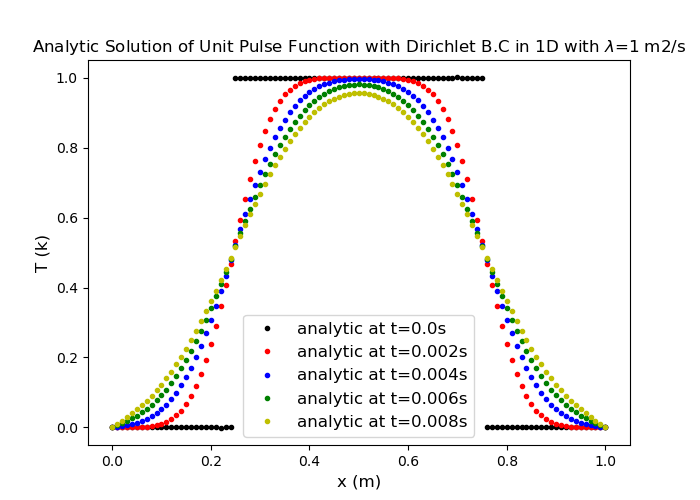
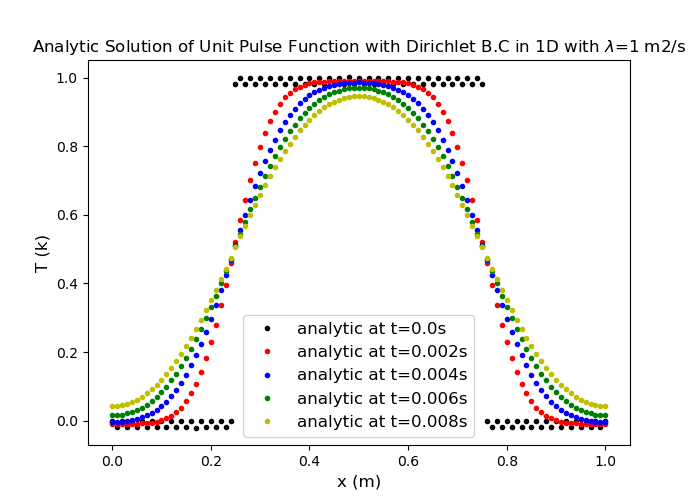
finish the part of Neumann
finish the part of Neumann

diff --git a/AnalyticalHeatTransferSolution1D.py b/AnalyticalHeatTransferSolution1D.py
@@ -94,6 +94,7 @@ print("deriving analytical solutions")
 def unitPulse_Dirichlet_T(xi,ti): # dirichlet bc: T(0,t)=0; T(L,t)=0
     sum_n = 0
     N = 100
+    m = 1 # magnitude of the unit pulse function
     A_0 = m/2 
     sum_n = sum_n + A_0
     for n in range(1,N):
@@ -345,7 +346,7 @@ print("finished plotting sines_Neumann_T")
 # deriving analytical solutions:
 print("deriving analytical solutions")
 # linear_Neumann_T
-def linaer_Neumann_T(xi,ti): # Neumann bc: T_x(0,t)=0; T_x(L,t)=0
+def linear_Neumann_T(xi,ti): # Neumann bc: T_x(0,t)=0; T_x(L,t)=0
     sum_n = 0
     N = 100
     for n in range(1,N):
